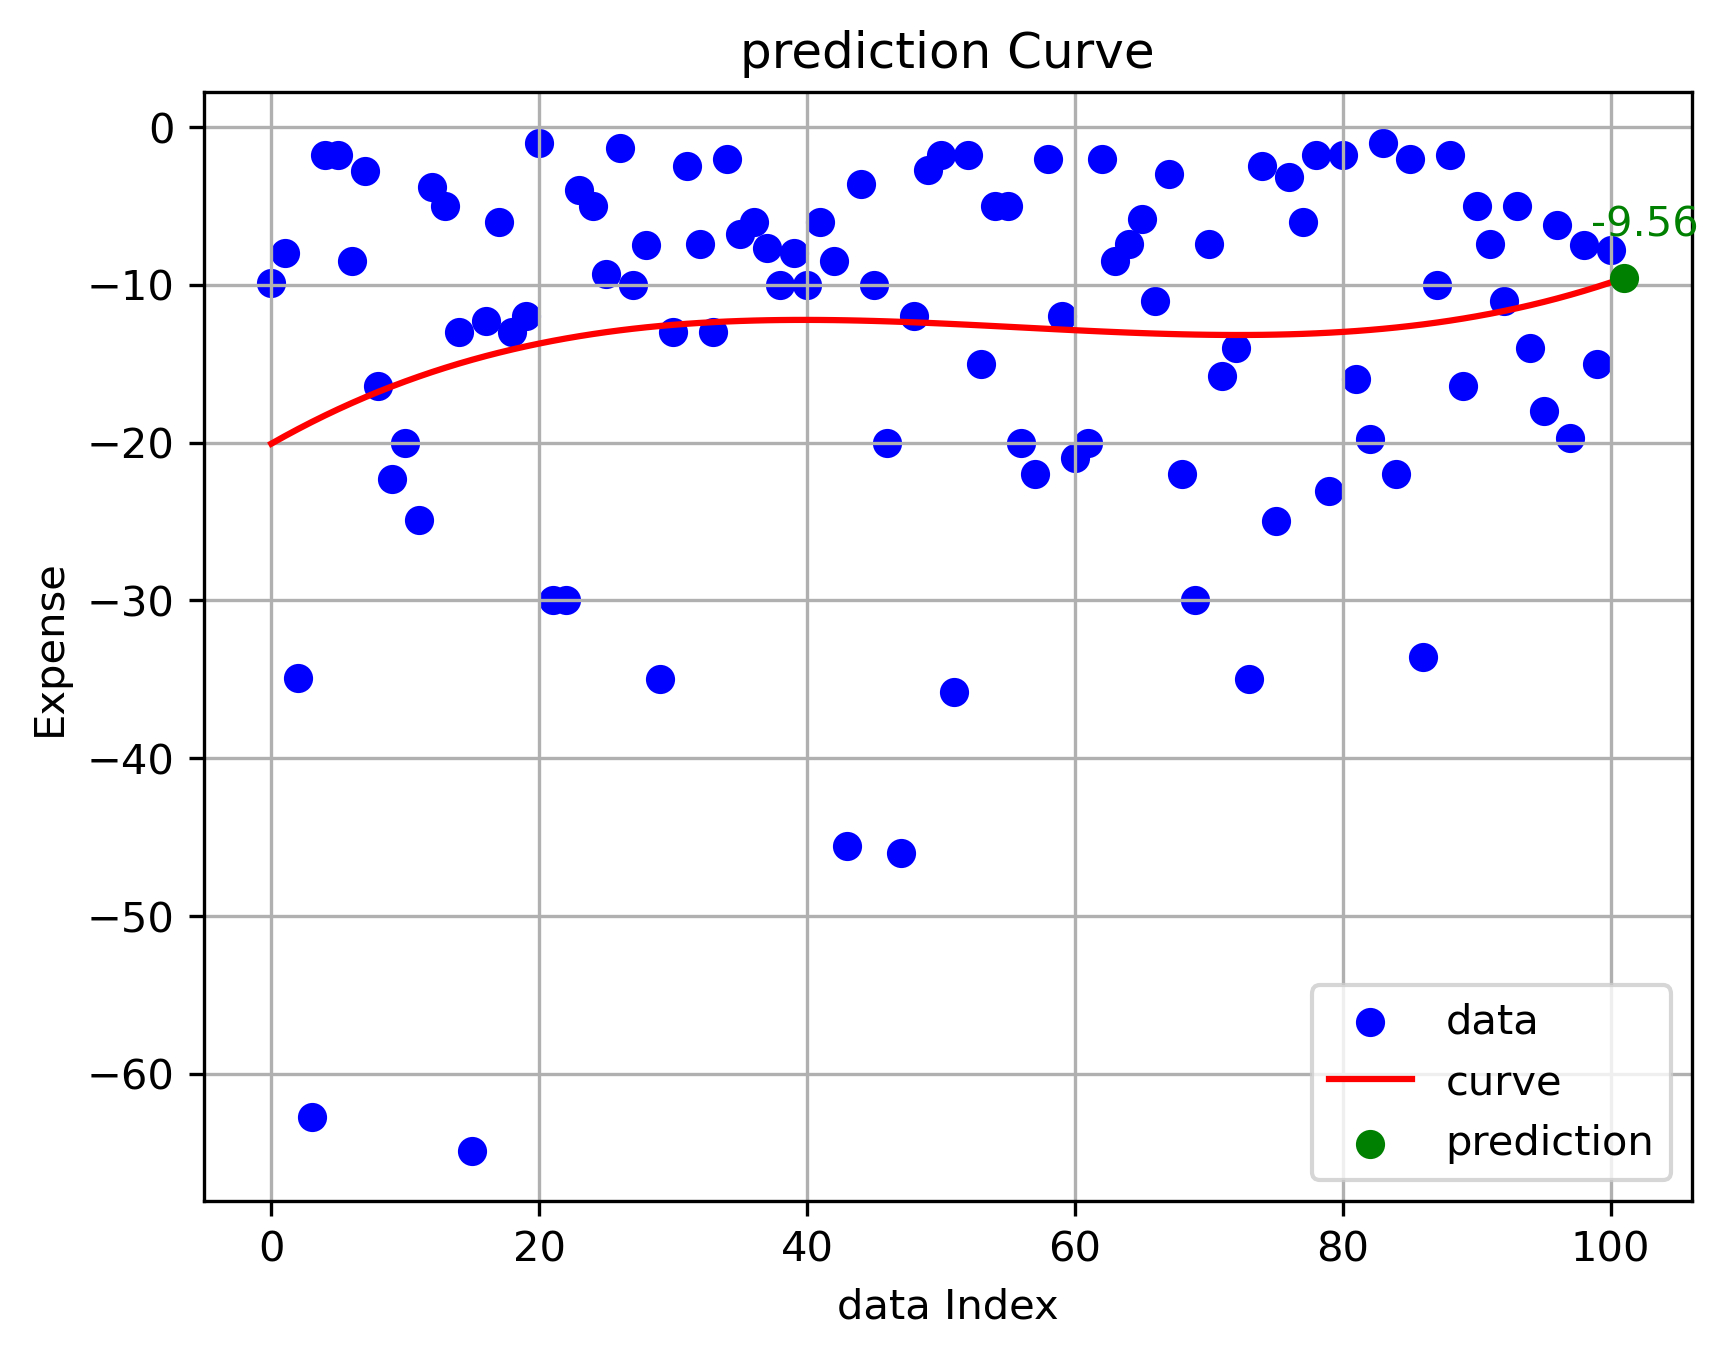
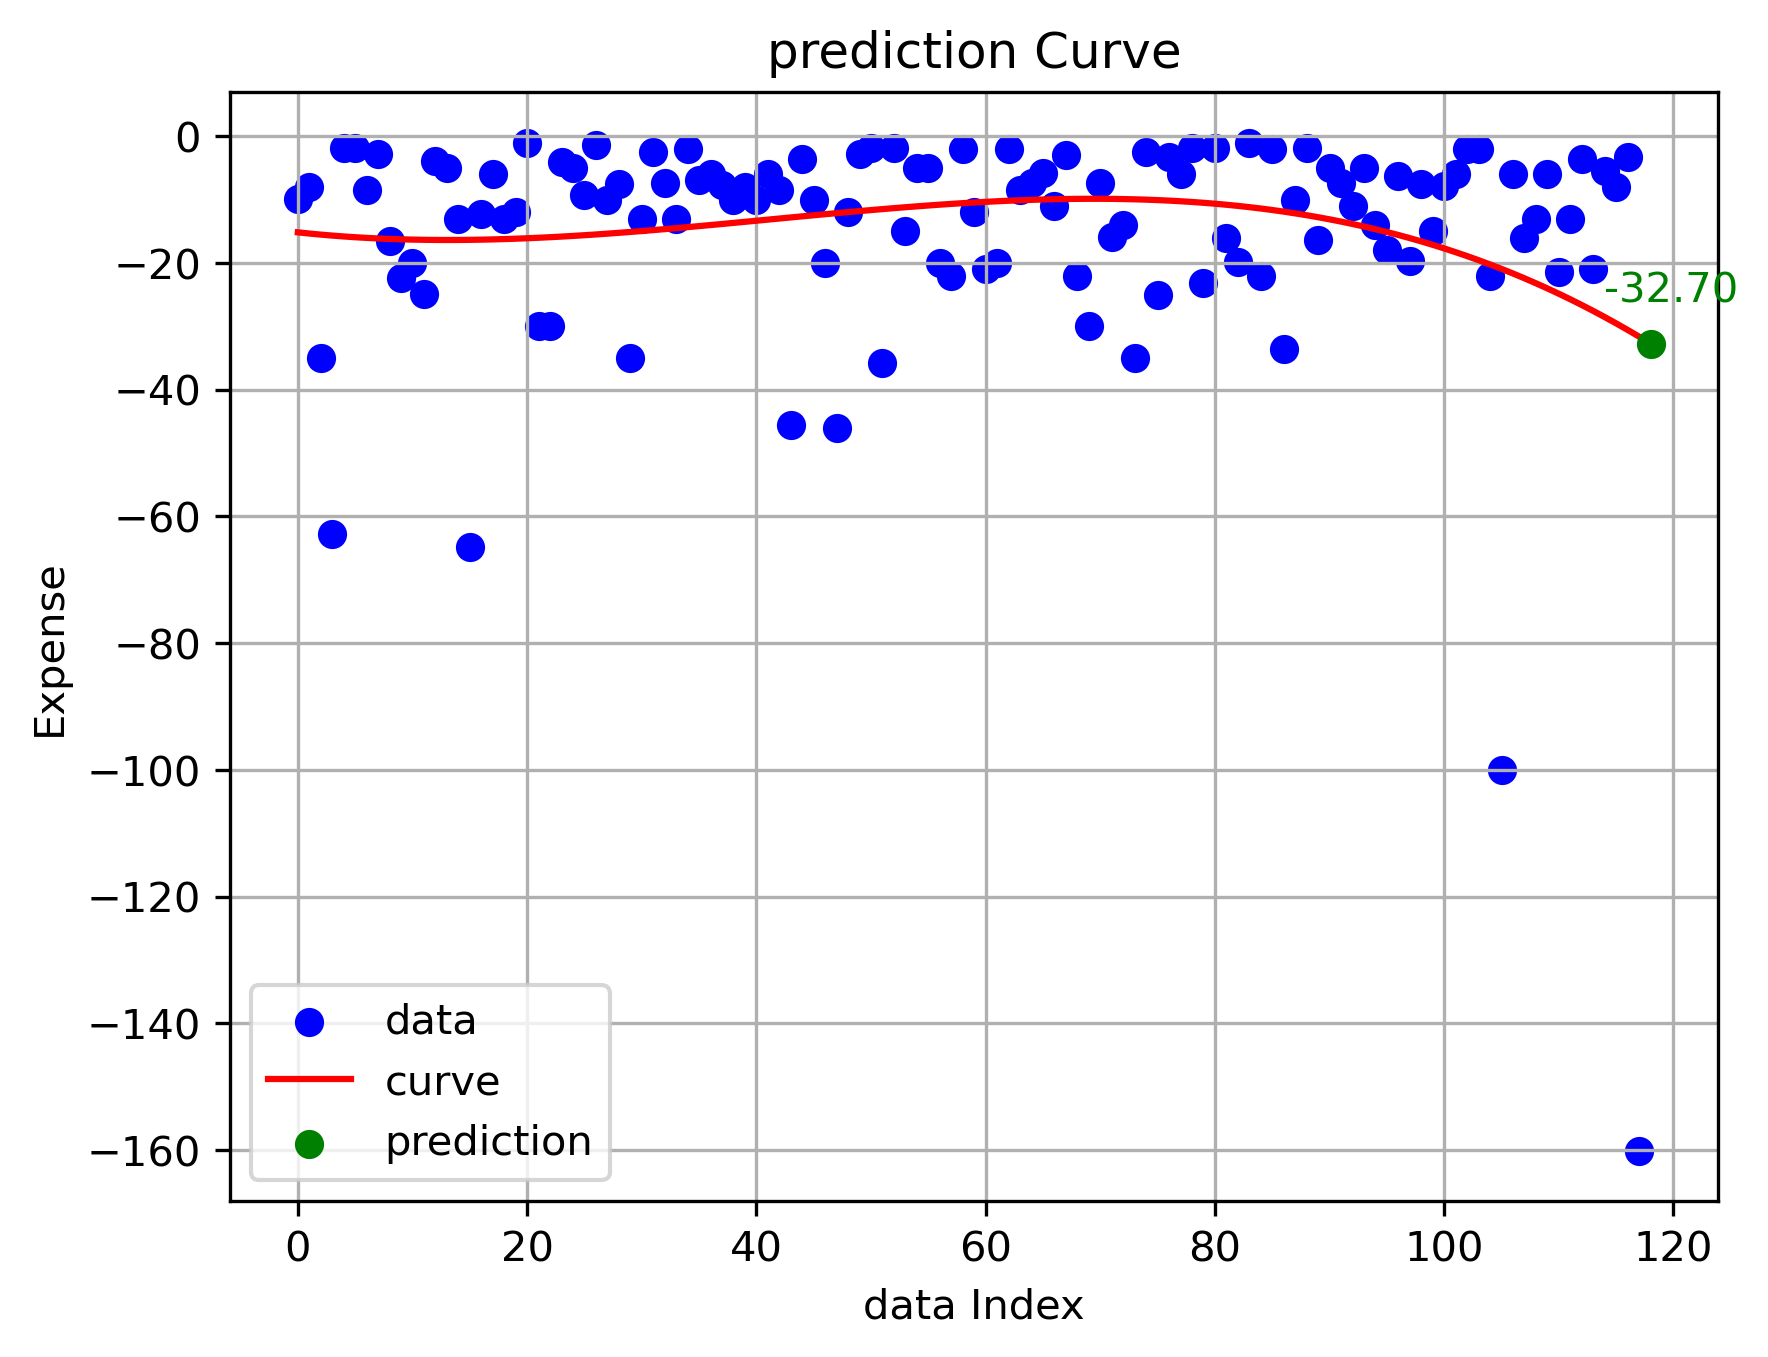
data update 11.25

diff --git a/ExpenseAnalysis/model_predictions.md b/ExpenseAnalysis/model_predictions.md
@@ -4,12 +4,12 @@
 ## 预测值列表
 | 序号 | 预测值 |
 | -------- | ----------------------- |
-| 1    | -9.56224              |
-| 2    | -11.20950              |
-| 3    | -9.22500              |
-| 4    | -10.26243              |
+| 1    | -32.70176              |
+| 2    | -18.92196              |
+| 3    | -96.18120              |
+| 4    | -8.93910              |
     
 ## 统计分析
-- **均值**: -10.06
-- **总体方差**: 0.58
-- **样本方差**: 0.77
+- **均值**: -39.19
+- **总体方差**: 1154.00
+- **样本方差**: 1538.67

diff --git a/Avg&Var/result.md b/Avg&Var/result.md
@@ -2,8 +2,8 @@
 
 ## 金额（可执行）数据分析
 
-- 平均值: -60.72772727272727
-- 方差: 1780.1514755411258
+- 平均值: -63.024
+- 方差: 2017.7012333333337
 
 ## 日期出现次数统计
 
@@ -22,3 +22,7 @@
 | 2024-11-14 |          2 |
 | 2024-11-15 |          1 |
 | 2024-11-17 |          2 |
+| 2024-11-22 |          2 |
+| 2024-11-23 |          1 |
+| 2024-11-24 |          1 |
+| 2024-11-25 |          1 |
